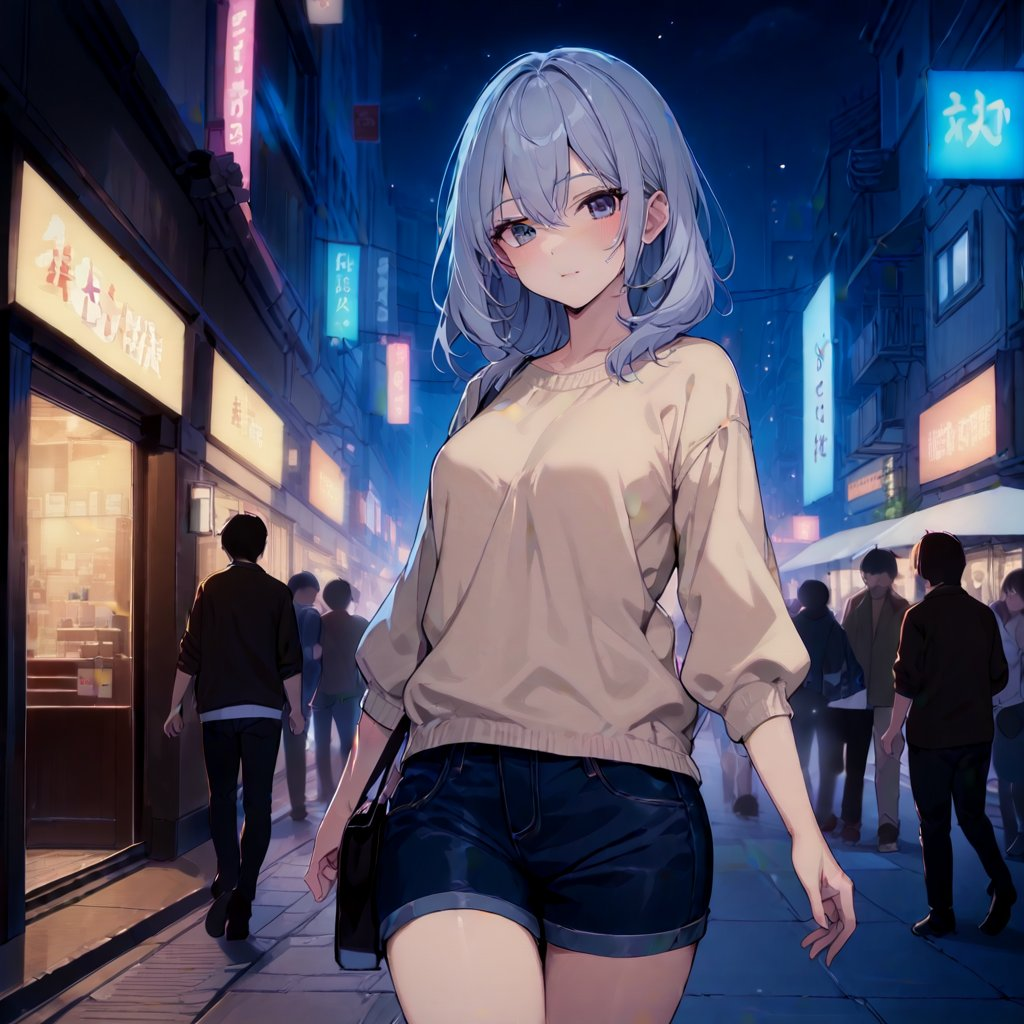
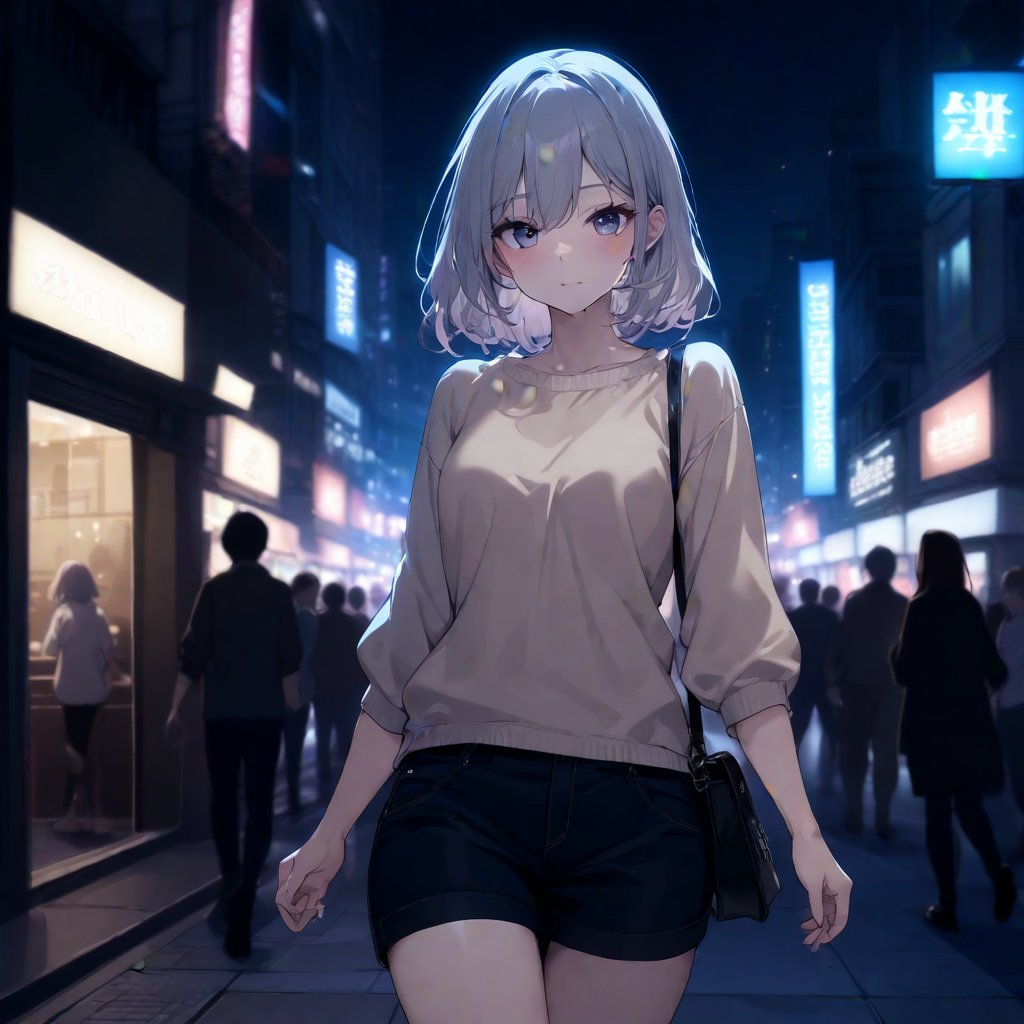
improved logics

diff --git a/javascript/vec_cc.js b/javascript/vec_cc.js
@@ -68,10 +68,12 @@ class VectorscopeCC {
             });
         });
 
-        wheel.addEventListener('mouseup', () => {
-            updateInput(sliders[0][1]);
-            updateInput(sliders[1][1]);
-            updateInput(sliders[2][1]);
+        ['mouseleave', 'mouseup'].forEach((event) => {
+            wheel.addEventListener(event, () => {
+                updateInput(sliders[0][0]);
+                updateInput(sliders[1][0]);
+                updateInput(sliders[2][0]);
+            });
         });
     }
 

diff --git a/scripts/cc.py b/scripts/cc.py
@@ -222,15 +222,12 @@ class VectorscopeCC(scripts.Script):
             p.extra_generation_params['Vec CC Scaling'] = scaling
             p.extra_generation_params['Vec CC Version'] = VERSION
 
-        # Decouple from Steps
-        scale:int = 16
-
-        bri /= scale
-        con /= scale
-        sat = pow(sat, 1.0 / scale)
-        r /= scale
-        g /= scale
-        b /= scale
+        bri /= steps
+        con /= steps
+        sat = pow(sat, 1.0 / steps)
+        r /= steps
+        g /= steps
+        b /= steps
 
         mode = 'x' if latent else 'denoised'
 

diff --git a/README.md b/README.md
@@ -111,7 +111,7 @@ Therefore, I added a scaling option to modify the offset amount throughout the p
 - **Pos. Prompt:** `[high quality, best quality], 1girl, solo, casual, night, street, city, <lora:SDXL_Lightning_8steps:1>`
 - **Neg. Prompt:** `lowres, [low quality, worst quality], jpeg`
 - `Euler A SGMUniform`; `10 steps`; `2.0 CFG`; **Seed:** `2836968120`
-- `Straight Abs.` ; `Flat`
+- `Multi-Res Abs.` ; `Cos`
 
 <p align="center">
 <code>Disabled</code><br>
@@ -119,14 +119,14 @@ Therefore, I added a scaling option to modify the offset amount throughout the p
 </p>
 
 <p align="center">
-<code>Brightness: 2.5 ; Contrast: -0.5 ; Saturation: 1.5<br>
-R: 2.5; G: 2.5; B: -4</code><br>
+<code>Brightness: 2.0 ; Contrast: -0.5 ; Saturation: 1.5<br>
+R: 2.5; G: 1.5; B: -3</code><br>
 <img src="samples/01.jpg" width=768>
 </p>
 
 <p align="center">
-<code>Brightness: -2.5 ; Contrast: 0.5 ; Saturation: 1.5<br>
-R: -1; G: -1; B: 2.5</code><br>
+<code>Brightness: -2.5 ; Contrast: 1 ; Saturation: 0.75<br>
+R: -1.5; G: -1.5; B: 4</code><br>
 <img src="samples/02.jpg" width=768>
 </p>
 

diff --git a/CHANGELOG.md b/CHANGELOG.md
@@ -1,4 +1,7 @@
 ### v2.0.0 - 2024 Mar.04
+- Improved Logics
+
+### v2.0.zeta - 2024 Mar.04
 - Support **SDXL**
 
 ### v2.0.gamma - 2024 Mar.01
